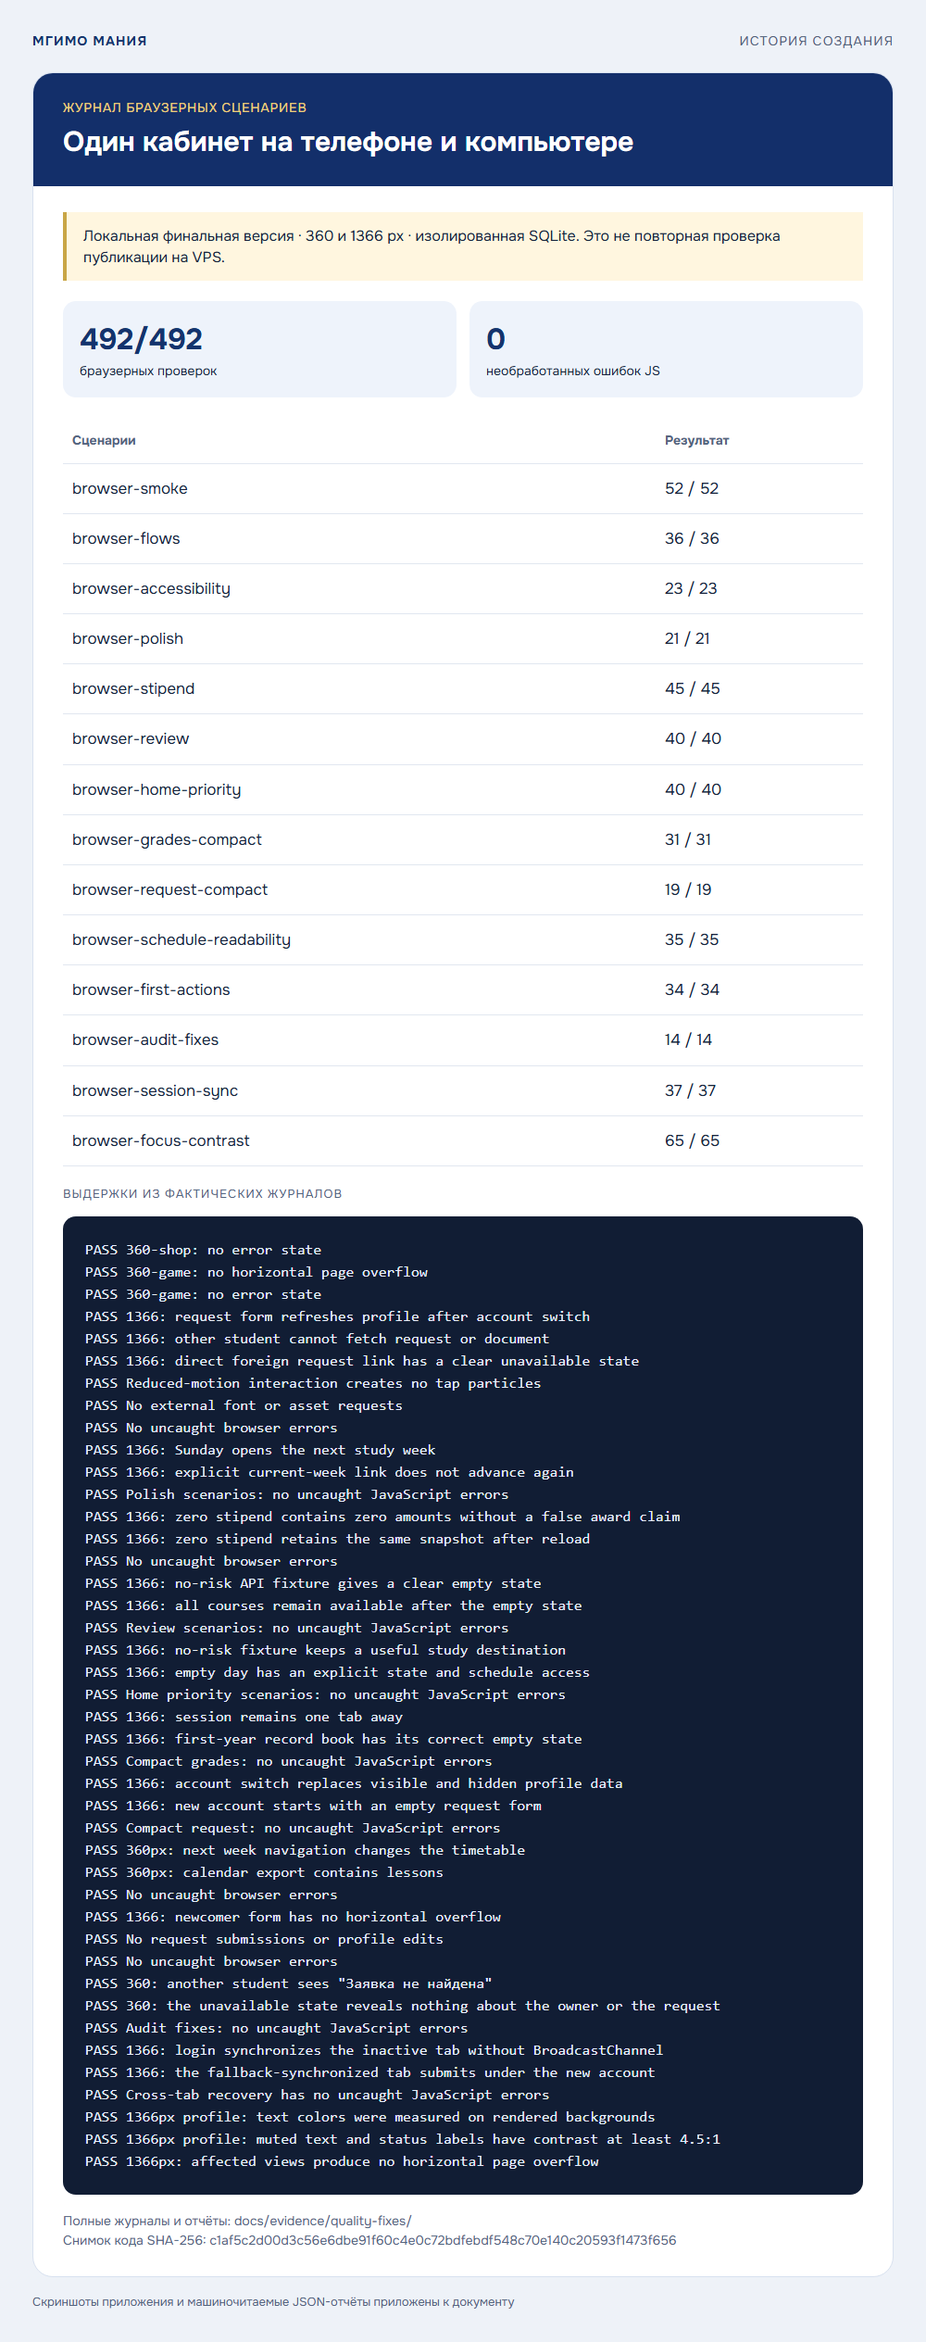
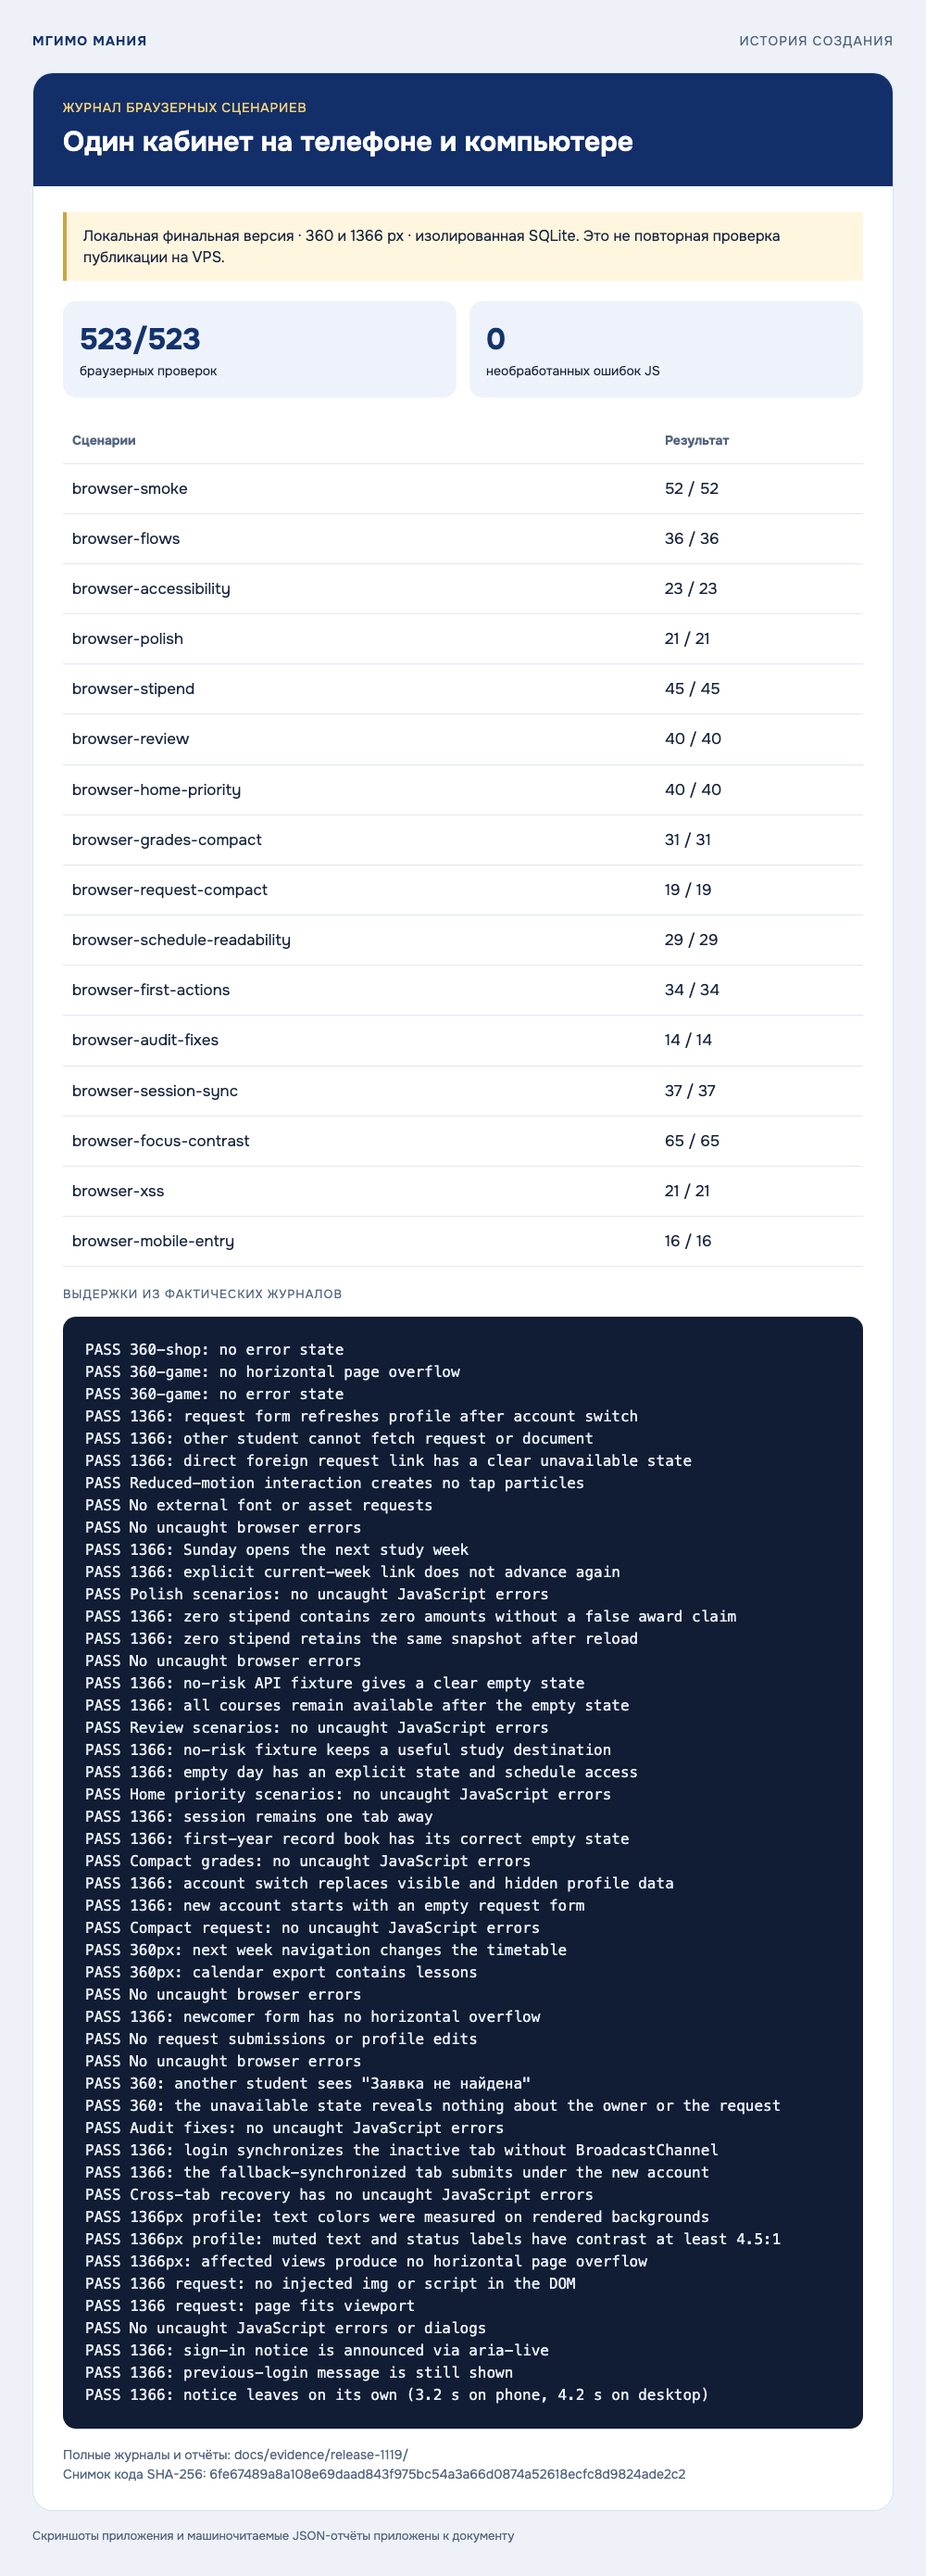
docs(evidence): экспорт истории Git и карточки журналов на 21 ноября
git-history.json пересобран scripts/export-git-history.py (683 коммита),
карточки Git, тестов и браузерных проверок — из прогона release-1119.

Changed region(s): [[0.031, 0.0, 0.961, 1.0]]

diff --git a/docs/evidence/process/git-history.html b/docs/evidence/process/git-history.html
@@ -14,4 +14,4 @@ pre{white-space:pre-wrap;overflow-wrap:anywhere;font:16px/1.5 Consolas,monospace
 table{width:100%;border-collapse:collapse;font-size:17px}td,th{text-align:left;vertical-align:top;padding:14px 10px;border-bottom:1px solid #e1e7f0}th{color:#53647e;font-size:14px}
 .metrics{display:flex;gap:14px;margin-bottom:22px}.metric{flex:1;background:#eef3fb;padding:18px;border-radius:14px;font-size:14px}.metric b{display:block;font-size:32px;color:#14336d}
 .commit{font-family:Consolas,monospace;color:#14336d;font-weight:bold}.small{font-size:15px;color:#53647e}
-</style><div class="page"><div class="brand"><b>МГИМО МАНИЯ</b><span>ИСТОРИЯ СОЗДАНИЯ</span></div><article class="card"><header class="head"><div class="tag">Журнал изменений / Git</div><h1>От учебного ядра до опубликованного кабинета</h1></header><div class="body"><div class="notice">Данные экспортированы из Git. Коммиты 4 ноября созданы скриптом за 2 мин 21 с в конце первой сессии Claude Code: они показывают устройство кода, а не хронологию работы. С 8 ноября каждый коммит — отдельная итерация. Атрибуция в коммите не раскрывает текст промпта.</div><div class="metrics"><div class="metric"><b>644</b>коммитов в снимке истории</div><div class="metric"><b>633</b>с атрибуцией Claude</div></div><table><thead><tr><th>Версия</th><th>Зафиксированное изменение</th></tr></thead><tbody><tr><td><span class="commit">9c74eef</span><br><span class="small">2026-11-04</span></td><td>chore(package): проект Node.js: скрипты запуска, сида и тестов</td></tr><tr><td><span class="commit">832c17b</span><br><span class="small">2026-11-04</span></td><td>feat(db): schema.sql: Схема демо-стенда «МГИМО Мания». Все данные вымышленные.</td></tr><tr><td><span class="commit">26a17f0</span><br><span class="small">2026-11-04</span></td><td>feat(security): password.js: пароли: scrypt со случайной солью. В базе — только строка вида scrypt$N$r$…</td></tr><tr><td><span class="commit">4f1e623</span><br><span class="small">2026-11-04</span></td><td>docs(third_party): раздел «Сторонние материалы» в THIRD_PARTY.md</td></tr><tr><td><span class="commit">00882b7</span><br><span class="small">2026-11-08</span></td><td>fix: prepare student portal for contest review and OpenRouter</td></tr><tr><td><span class="commit">969bdf4</span><br><span class="small">2026-11-08</span></td><td>deploy: configure isolated VPS service for ai.neblanki.tech</td></tr><tr><td><span class="commit">6376d05</span><br><span class="small">2026-11-08</span></td><td>fix: retire legacy offline cache after domain migration</td></tr><tr><td><span class="commit">19e9672</span><br><span class="small">2026-11-08</span></td><td>Clarify first actions and improve dashboard and timetable</td></tr><tr><td><span class="commit">0e3d1c3</span><br><span class="small">2026-11-09</span></td><td>Polish mobile UI and harden the shared demo stand</td></tr></tbody></table><div class="sources">Полный экспорт: docs/evidence/history/git-history.json<br>Снимок до текущей доработки: 089a8d2</div></div></article><div class="footer">Выборка реальных записей репозитория · даты взяты из метаданных Git</div></div></html>
+</style><div class="page"><div class="brand"><b>МГИМО МАНИЯ</b><span>ИСТОРИЯ СОЗДАНИЯ</span></div><article class="card"><header class="head"><div class="tag">Журнал изменений / Git</div><h1>От учебного ядра до опубликованного кабинета</h1></header><div class="body"><div class="notice">Данные экспортированы из Git. Коммиты 4 ноября созданы скриптом за 2 мин 21 с в конце первой сессии Claude Code: они показывают устройство кода, а не хронологию работы. С 8 ноября каждый коммит — отдельная итерация. Атрибуция в коммите не раскрывает текст промпта.</div><div class="metrics"><div class="metric"><b>683</b>коммитов в снимке истории</div><div class="metric"><b>670</b>с атрибуцией Claude</div></div><table><thead><tr><th>Версия</th><th>Зафиксированное изменение</th></tr></thead><tbody><tr><td><span class="commit">9c74eef</span><br><span class="small">2026-11-04</span></td><td>chore(package): проект Node.js: скрипты запуска, сида и тестов</td></tr><tr><td><span class="commit">832c17b</span><br><span class="small">2026-11-04</span></td><td>feat(db): schema.sql: Схема демо-стенда «МГИМО Мания». Все данные вымышленные.</td></tr><tr><td><span class="commit">26a17f0</span><br><span class="small">2026-11-04</span></td><td>feat(security): password.js: пароли: scrypt со случайной солью. В базе — только строка вида scrypt$N$r$…</td></tr><tr><td><span class="commit">4f1e623</span><br><span class="small">2026-11-04</span></td><td>docs(third_party): раздел «Сторонние материалы» в THIRD_PARTY.md</td></tr><tr><td><span class="commit">00882b7</span><br><span class="small">2026-11-08</span></td><td>fix: prepare student portal for contest review and OpenRouter</td></tr><tr><td><span class="commit">969bdf4</span><br><span class="small">2026-11-08</span></td><td>deploy: configure isolated VPS service for ai.neblanki.tech</td></tr><tr><td><span class="commit">6376d05</span><br><span class="small">2026-11-08</span></td><td>fix: retire legacy offline cache after domain migration</td></tr><tr><td><span class="commit">19e9672</span><br><span class="small">2026-11-08</span></td><td>Clarify first actions and improve dashboard and timetable</td></tr><tr><td><span class="commit">0e3d1c3</span><br><span class="small">2026-11-09</span></td><td>Polish mobile UI and harden the shared demo stand</td></tr></tbody></table><div class="sources">Полный экспорт: docs/evidence/history/git-history.json<br>Снимок до текущей доработки: 0bf2fc0</div></div></article><div class="footer">Выборка реальных записей репозитория · даты взяты из метаданных Git</div></div></html>

diff --git a/docs/evidence/process/browser-results.html b/docs/evidence/process/browser-results.html
@@ -14,7 +14,7 @@ pre{white-space:pre-wrap;overflow-wrap:anywhere;font:16px/1.5 Consolas,monospace
 table{width:100%;border-collapse:collapse;font-size:17px}td,th{text-align:left;vertical-align:top;padding:14px 10px;border-bottom:1px solid #e1e7f0}th{color:#53647e;font-size:14px}
 .metrics{display:flex;gap:14px;margin-bottom:22px}.metric{flex:1;background:#eef3fb;padding:18px;border-radius:14px;font-size:14px}.metric b{display:block;font-size:32px;color:#14336d}
 .commit{font-family:Consolas,monospace;color:#14336d;font-weight:bold}.small{font-size:15px;color:#53647e}
-</style><div class="page"><div class="brand"><b>МГИМО МАНИЯ</b><span>ИСТОРИЯ СОЗДАНИЯ</span></div><article class="card"><header class="head"><div class="tag">Журнал браузерных сценариев</div><h1>Один кабинет на телефоне и компьютере</h1></header><div class="body"><div class="notice">Локальная финальная версия · 360 и 1366 px · изолированная SQLite. Это не повторная проверка публикации на VPS.</div><div class="metrics"><div class="metric"><b>492/492</b>браузерных проверок</div><div class="metric"><b>0</b>необработанных ошибок JS</div></div><table><thead><tr><th>Сценарии</th><th>Результат</th></tr></thead><tbody><tr><td>browser-smoke</td><td>52 / 52</td></tr><tr><td>browser-flows</td><td>36 / 36</td></tr><tr><td>browser-accessibility</td><td>23 / 23</td></tr><tr><td>browser-polish</td><td>21 / 21</td></tr><tr><td>browser-stipend</td><td>45 / 45</td></tr><tr><td>browser-review</td><td>40 / 40</td></tr><tr><td>browser-home-priority</td><td>40 / 40</td></tr><tr><td>browser-grades-compact</td><td>31 / 31</td></tr><tr><td>browser-request-compact</td><td>19 / 19</td></tr><tr><td>browser-schedule-readability</td><td>35 / 35</td></tr><tr><td>browser-first-actions</td><td>34 / 34</td></tr><tr><td>browser-audit-fixes</td><td>14 / 14</td></tr><tr><td>browser-session-sync</td><td>37 / 37</td></tr><tr><td>browser-focus-contrast</td><td>65 / 65</td></tr></tbody></table><div class="label">Выдержки из фактических журналов</div><pre>PASS 360-shop: no error state
+</style><div class="page"><div class="brand"><b>МГИМО МАНИЯ</b><span>ИСТОРИЯ СОЗДАНИЯ</span></div><article class="card"><header class="head"><div class="tag">Журнал браузерных сценариев</div><h1>Один кабинет на телефоне и компьютере</h1></header><div class="body"><div class="notice">Локальная финальная версия · 360 и 1366 px · изолированная SQLite. Это не повторная проверка публикации на VPS.</div><div class="metrics"><div class="metric"><b>523/523</b>браузерных проверок</div><div class="metric"><b>0</b>необработанных ошибок JS</div></div><table><thead><tr><th>Сценарии</th><th>Результат</th></tr></thead><tbody><tr><td>browser-smoke</td><td>52 / 52</td></tr><tr><td>browser-flows</td><td>36 / 36</td></tr><tr><td>browser-accessibility</td><td>23 / 23</td></tr><tr><td>browser-polish</td><td>21 / 21</td></tr><tr><td>browser-stipend</td><td>45 / 45</td></tr><tr><td>browser-review</td><td>40 / 40</td></tr><tr><td>browser-home-priority</td><td>40 / 40</td></tr><tr><td>browser-grades-compact</td><td>31 / 31</td></tr><tr><td>browser-request-compact</td><td>19 / 19</td></tr><tr><td>browser-schedule-readability</td><td>29 / 29</td></tr><tr><td>browser-first-actions</td><td>34 / 34</td></tr><tr><td>browser-audit-fixes</td><td>14 / 14</td></tr><tr><td>browser-session-sync</td><td>37 / 37</td></tr><tr><td>browser-focus-contrast</td><td>65 / 65</td></tr><tr><td>browser-xss</td><td>21 / 21</td></tr><tr><td>browser-mobile-entry</td><td>16 / 16</td></tr></tbody></table><div class="label">Выдержки из фактических журналов</div><pre>PASS 360-shop: no error state
 PASS 360-game: no horizontal page overflow
 PASS 360-game: no error state
 PASS 1366: request form refreshes profile after account switch
@@ -55,4 +55,10 @@ PASS 1366: the fallback-synchronized tab submits under the new account
 PASS Cross-tab recovery has no uncaught JavaScript errors
 PASS 1366px profile: text colors were measured on rendered backgrounds
 PASS 1366px profile: muted text and status labels have contrast at least 4.5:1
-PASS 1366px: affected views produce no horizontal page overflow</pre><div class="sources">Полные журналы и отчёты: docs/evidence/quality-fixes/<br>Снимок кода SHA-256: c1af5c2d00d3c56e6dbe91f60c4e0c72bdfebdf548c70e140c20593f1473f656</div></div></article><div class="footer">Скриншоты приложения и машиночитаемые JSON-отчёты приложены к документу</div></div></html>
+PASS 1366px: affected views produce no horizontal page overflow
+PASS 1366 request: no injected img or script in the DOM
+PASS 1366 request: page fits viewport
+PASS No uncaught JavaScript errors or dialogs
+PASS 1366: sign-in notice is announced via aria-live
+PASS 1366: previous-login message is still shown
+PASS 1366: notice leaves on its own (3.2 s on phone, 4.2 s on desktop)</pre><div class="sources">Полные журналы и отчёты: docs/evidence/release-1119/<br>Снимок кода SHA-256: 6fe67489a8a108e69daad843f975bc54a3a66d0874a52618ecfc8d9824ade2c2</div></div></article><div class="footer">Скриншоты приложения и машиночитаемые JSON-отчёты приложены к документу</div></div></html>

diff --git a/docs/evidence/process/test-results.html b/docs/evidence/process/test-results.html
@@ -14,9 +14,9 @@ pre{white-space:pre-wrap;overflow-wrap:anywhere;font:16px/1.5 Consolas,monospace
 table{width:100%;border-collapse:collapse;font-size:17px}td,th{text-align:left;vertical-align:top;padding:14px 10px;border-bottom:1px solid #e1e7f0}th{color:#53647e;font-size:14px}
 .metrics{display:flex;gap:14px;margin-bottom:22px}.metric{flex:1;background:#eef3fb;padding:18px;border-radius:14px;font-size:14px}.metric b{display:block;font-size:32px;color:#14336d}
 .commit{font-family:Consolas,monospace;color:#14336d;font-weight:bold}.small{font-size:15px;color:#53647e}
-</style><div class="page"><div class="brand"><b>МГИМО МАНИЯ</b><span>ИСТОРИЯ СОЗДАНИЯ</span></div><article class="card"><header class="head"><div class="tag">Фактический вывод запуска / фрагмент</div><h1>Права доступа, сохранение и предметная логика</h1></header><div class="body"><div class="metrics"><div class="metric"><b>42/42</b>автоматических тестов</div><div class="metric"><b>0</b>код завершения</div></div><div class="small">2026-11-09T14:04:04+03:00 · отдельная тестовая база</div><pre>Command: node --test --test-reporter=tap test/*.test.js
-Started (MSK): 2026-11-09T14:04:04+03:00
-Finished (MSK): 2026-11-09T14:04:06+03:00
+</style><div class="page"><div class="brand"><b>МГИМО МАНИЯ</b><span>ИСТОРИЯ СОЗДАНИЯ</span></div><article class="card"><header class="head"><div class="tag">Фактический вывод запуска / фрагмент</div><h1>Права доступа, сохранение и предметная логика</h1></header><div class="body"><div class="metrics"><div class="metric"><b>73/73</b>автоматических тестов</div><div class="metric"><b>0</b>код завершения</div></div><div class="small">2026-11-19T22:14:33+03:00 · отдельная тестовая база</div><pre>Command: node --test --test-reporter=tap test/*.test.js
+Started (MSK): 2026-11-19T22:14:33+03:00
+Finished (MSK): 2026-11-19T22:14:52+03:00
 Exit code: 0
 
 # Subtest: OpenRouter получает только снимок текущего студента, ключ не возвращается клиенту
@@ -36,11 +36,11 @@ Exit code: 0
 # Subtest: справка: API игнорирует чужой student_id и суммы клиента, сохраняет снимок и запрещает чужое чтение
 # Subtest: справка: старой заявке добавляется снимок за её период, который переживает повторное открытие БД
 
-# tests 42
+# tests 73
 # suites 0
-# pass 42
+# pass 73
 # fail 0
 # cancelled 0
 # skipped 0
 # todo 0
-# duration_ms 1816.4136</pre><div class="sources">Полный журнал: docs/evidence/quality-fixes/unit-tests.txt<br>Среда: Node.js; внешние ключи ИИ отключены.</div></div></article><div class="footer">Визуализация сохранённого журнала команд · строки тестов не реконструированы</div></div></html>
+# duration_ms 18300.2882</pre><div class="sources">Полный журнал: docs/evidence/release-1119/unit-tests.txt<br>Среда: Node.js; внешние ключи ИИ отключены.</div></div></article><div class="footer">Визуализация сохранённого журнала команд · строки тестов не реконструированы</div></div></html>
